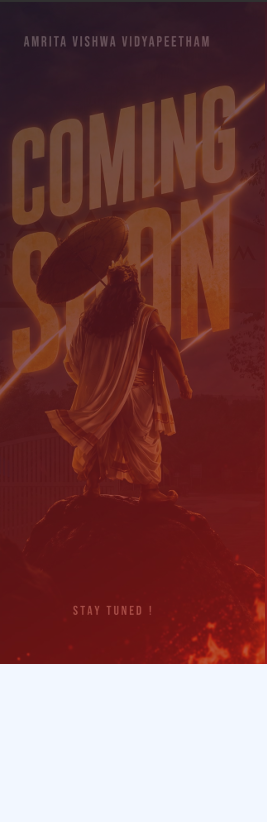
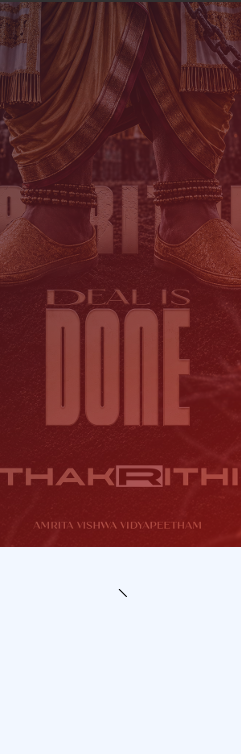
style: replace e-ticket visual template background asset and update dynamic text positioning

diff --git a/REGISTRATION/forms/config/ticket.config.ts b/REGISTRATION/forms/config/ticket.config.ts
@@ -17,66 +17,66 @@ export const ticketConfig = {
   // Path to custom Montserrat ExtraBold font in /public/fonts/
   fontPath: process.env.TICKET_FONT_PATH || '/fonts/EventFont.ttf',
 
-  // Canvas Dimensions: 267 x 822 (Portrait Ticket Background)
+  // Canvas Dimensions: 241 x 754 (Portrait Thakrithi Ticket Background)
 
   // Line 1: Event Name overlay (Gold)
   eventName: {
-    x: 18,
-    y: 390,
-    fontSize: 12.5,
+    x: 16,
+    y: 330,
+    fontSize: 11,
     label: "EVENT:",
     color: { r: 0.95, g: 0.79, b: 0.3 } // Bright Gold
   } as TextElementConfig,
 
   // Line 2: Team Leader Name overlay (White)
   teamLeaderName: {
-    x: 18,
-    y: 365,
-    fontSize: 12.5,
+    x: 16,
+    y: 308,
+    fontSize: 11,
     label: "TEAM LEADER:",
     color: { r: 1, g: 1, b: 1 } // Pure White
   } as TextElementConfig,
 
   // Line 3: Number of Members overlay (White)
   numberOfMembers: {
-    x: 18,
-    y: 340,
-    fontSize: 12.5,
+    x: 16,
+    y: 286,
+    fontSize: 11,
     label: "NO. OF MEMBERS:",
     color: { r: 1, g: 1, b: 1 } // Pure White
   } as TextElementConfig,
 
-  // Line 4: Slot Time overlay (White Label + Gold Value)
+  // Line 4: Slot Time overlay (Disabled / Hidden)
   slotTime: {
-    x: 18,
-    y: 315,
-    fontSize: 12.5,
+    x: 16,
+    y: 264,
+    fontSize: 11,
     label: "SLOT TIME:",
-    color: { r: 0.95, g: 0.79, b: 0.3 } // Gold Value
+    color: { r: 0.95, g: 0.79, b: 0.3 }
   } as TextElementConfig,
 
   // Line 5: Registration ID overlay (Orange)
   registrationId: {
-    x: 18,
-    y: 290,
-    fontSize: 12.5,
+    x: 16,
+    y: 264,
+    fontSize: 11,
     label: "REGISTRATION ID:",
-    color: { r: 0.9, g: 0.32, b: 0.05 } // Energetic Orange
+    color: { r: 0.95, g: 0.38, b: 0.1 } // Energetic Orange
   } as TextElementConfig,
 
   // QR Code placement centered in the bottom white space area
   qrCode: {
-    x: 53.5,
-    y: 42,
-    width: 160,
-    height: 160
+    x: 45.5,
+    y: 40,
+    width: 150,
+    height: 150
   } as ImageElementConfig,
 
   // Success text centered below QR code in the bottom white space area
   successText: {
-    x: 133.5, // Centered horizontally (width 267 / 2)
-    y: 20,
-    fontSize: 9.5,
+    x: 120.5, // Centered horizontally (width 241 / 2)
+    y: 18,
+    fontSize: 8.5,
     label: "SUCCESSFULLY REGISTERED",
     color: { r: 0.08, g: 0.08, b: 0.08 }
   } as TextElementConfig

diff --git a/REGISTRATION/forms/src/components/Registration/SuccessScreen.jsx b/REGISTRATION/forms/src/components/Registration/SuccessScreen.jsx
@@ -98,7 +98,7 @@ const SuccessScreen = ({ registrationResult, onDone, eventTitle, formatTitle }) 
         <div style={{
           position: 'relative',
           width: '100%',
-          aspectRatio: '267 / 822',
+          aspectRatio: '241 / 754',
           backgroundImage: 'url(/templates/ticket-bg.png)',
           backgroundSize: 'cover',
           backgroundPosition: 'center',
@@ -110,7 +110,7 @@ const SuccessScreen = ({ registrationResult, onDone, eventTitle, formatTitle }) 
           {/* Line 1: EVENT: MUSIC */}
           <div style={{
             position: 'absolute',
-            top: '52.5%',
+            top: '56.2%',
             left: '6.7%',
             right: '6.7%',
             fontSize: '0.78rem',
@@ -124,7 +124,7 @@ const SuccessScreen = ({ registrationResult, onDone, eventTitle, formatTitle }) 
           {/* Line 2: TEAM LEADER: Gautham Suresh */}
           <div style={{
             position: 'absolute',
-            top: '55.5%',
+            top: '59.1%',
             left: '6.7%',
             right: '6.7%',
             fontSize: '0.78rem',
@@ -138,7 +138,7 @@ const SuccessScreen = ({ registrationResult, onDone, eventTitle, formatTitle }) 
           {/* Line 3: NO. OF MEMBERS: 1 */}
           <div style={{
             position: 'absolute',
-            top: '58.5%',
+            top: '62.0%',
             left: '6.7%',
             right: '6.7%',
             fontSize: '0.74rem',
@@ -152,7 +152,7 @@ const SuccessScreen = ({ registrationResult, onDone, eventTitle, formatTitle }) 
           {/* Line 5: REGISTRATION ID: EVT-0002 */}
           <div style={{
             position: 'absolute',
-            top: '64.5%',
+            top: '64.9%',
             left: '6.7%',
             right: '6.7%',
             fontSize: '0.78rem',
